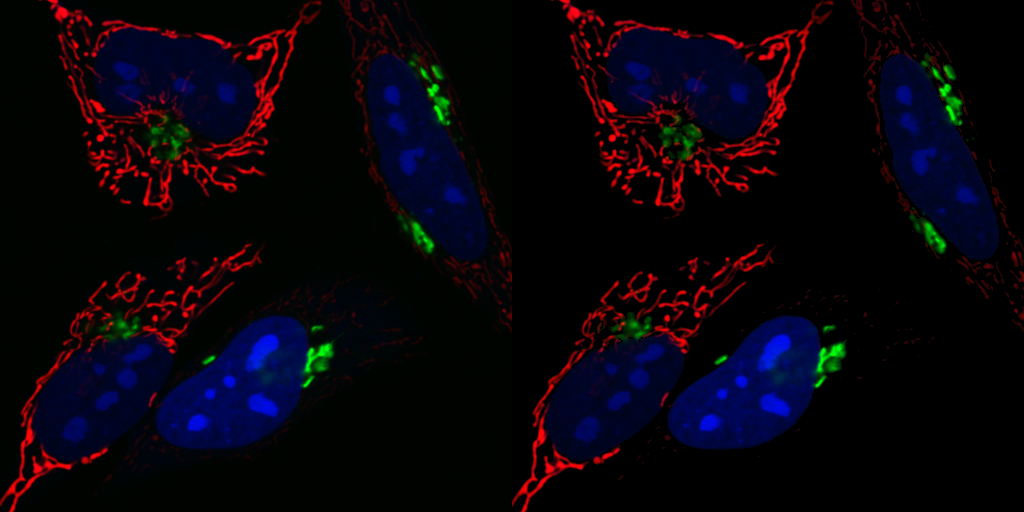
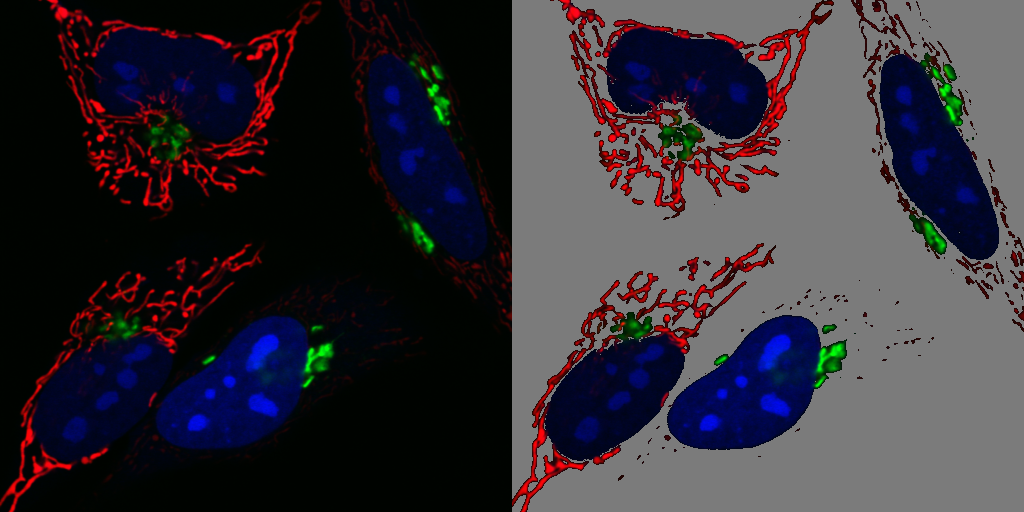
two demo iamges

diff --git a/app.py b/app.py
@@ -8,6 +8,7 @@ from shiny.types import FileInfo, ImgData, SilentException
 from tohsl import rgb_to_hsl, hsl_to_rgb
 from color_change import adjust_colors
 
+
 app_ui = ui.page_fluid(
     ui.h2("Playing with invert"),
     ui.layout_sidebar(
@@ -15,10 +16,12 @@ app_ui = ui.page_fluid(
             ui.input_file("file", None, button_label="Upload image",
                 # This tells it to accept still photos only (not videos).
                 accept="image/*", capture="environment"),
+            ui.input_radio_buttons('demos', 'Examples',
+                    choices = {"demo1": "Example1", "demo2": "Example2"}),
             ui.input_radio_buttons('func', 'Functions',
                     choices = {"invert": "Invert", "bc": "Background color change"}),
             ui.panel_conditional("input.func === 'invert'", 
-                    ui.input_radio_buttons("cspace", "Color space",['rgb','hsl','lab'])
+                    ui.input_radio_buttons("cspace", "Color space",['hsl','lab','rgb'])
                     ),
             ui.panel_conditional("input.func === 'bc'", 
                     ui.input_selectize("bcolor", "Background color", 
@@ -37,7 +40,8 @@ def server(input, output, session):
     async def image() -> ImgData:
         file_infos: list[FileInfo] = input.file()
         if not file_infos:
-            image_data = io.imread('demo_input/oRGB.png')
+            path = f'demo_input/{input.demos()}.png'
+            image_data = io.imread(path)
             # raise SilentException()
         else:
             file_info = file_infos[0]
